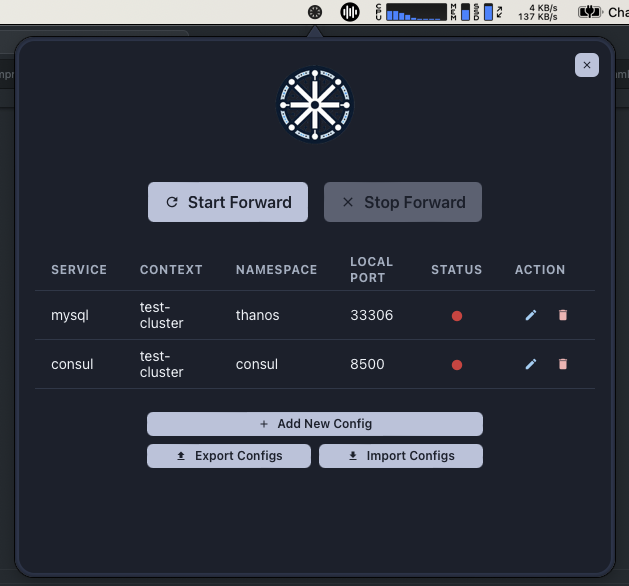
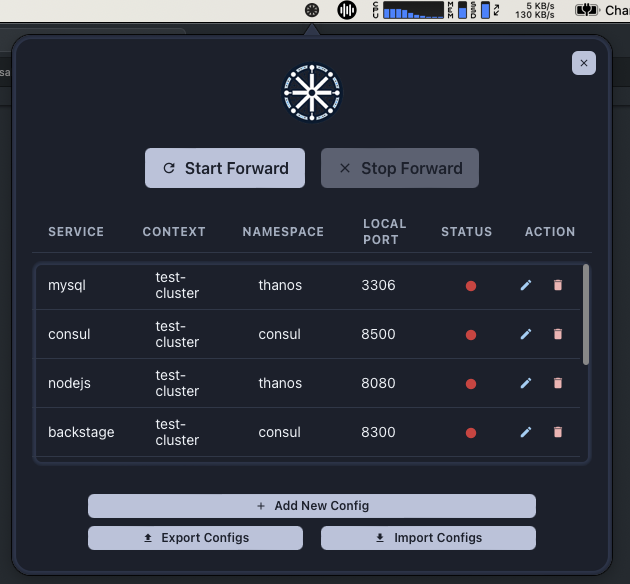
feat: improve table layout

diff --git a/src/App.tsx b/src/App.tsx
@@ -570,11 +570,11 @@ const App: React.FC = () => {
             as="h1"
             size="lg"
             color="white"
-            mb={1}
+            mb={0}
             marginTop={-2}
             background="transparent"
           >
-            <Image boxSize="50px" src={logo} />
+            <Image boxSize="80px" src={logo} />
           </Heading>
           <Center>
             <Modal isOpen={isModalOpen} onClose={closeModal} size="sm">
@@ -658,8 +658,8 @@ const App: React.FC = () => {
             direction="row"
             spacing={4}
             justify="center"
-            marginTop={2}
-            mb={5}
+            marginTop={0}
+            mb={4}
           >
             <Button
               leftIcon={<MdRefresh />}
